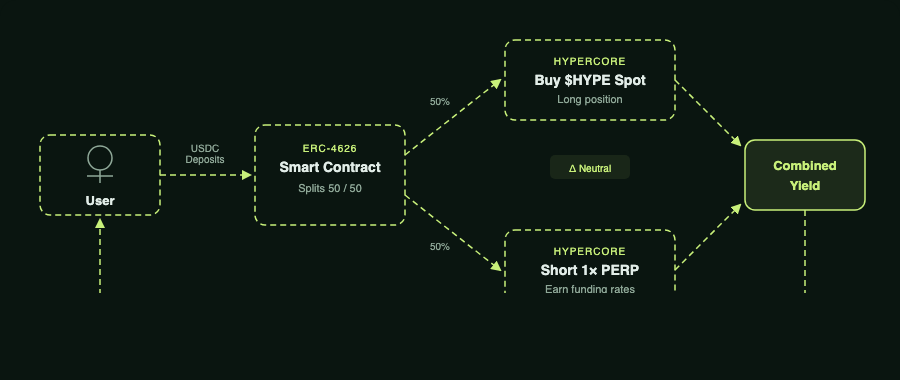
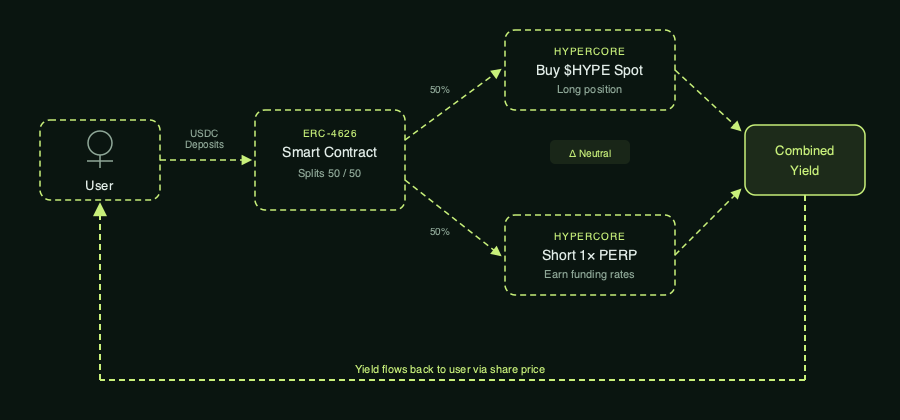
Fix basis trade diagram return path, update haHYPE/kHYPE token diagram
- Re-render basis trade diagram at 420px height with visible return path
  (Combined Yield → down → across bottom → back up to User)
- Replace yield-bearing tokens diagram with detailed haHYPE/kHYPE strategy
  flow showing deposit → vault → capital split → funding + ecosystem yield
- Move tokens diagram outside page-hero, increase max-width to 900px

diff --git a/harmonix-docs-v2.html b/harmonix-docs-v2.html
@@ -1314,8 +1314,8 @@ html, body {
         <span class="page-tag">Products</span>
         <h1>Yield-Bearing Tokens</h1>
         <p class="page-subtitle">haHYPE and hakHYPE are ERC-4626 yield-bearing tokens that put HYPE and kHYPE to work across HyperEVM. Yield accrues automatically into the share price — no claiming, no staking step, no manual rebalancing required.</p>
-      <img src="hahype-diagram.png" alt="haHYPE hakHYPE Diagram" style="width:100%;max-width:700px;display:block;margin:24px auto;border-radius:12px;" />
       </div>
+      <img src="hahype-diagram.png" alt="haHYPE hakHYPE Strategy Diagram" style="width:100%;max-width:900px;display:block;margin:24px auto;border-radius:12px;" />
 
       <div class="callout warn">
         <span class="callout-icon"><svg viewBox="0 0 24 24" fill="none" stroke="#f5c842" stroke-width="2"><path d="m10.29 3.86-8.57 14.86A2 2 0 0 0 3.43 22h17.14a2 2 0 0 0 1.71-3l-8.57-14.86a2 2 0 0 0-3.42.28z"/><line x1="12" y1="9" x2="12" y2="13"/><line x1="12" y1="17" x2="12.01" y2="17"/></svg></span>
